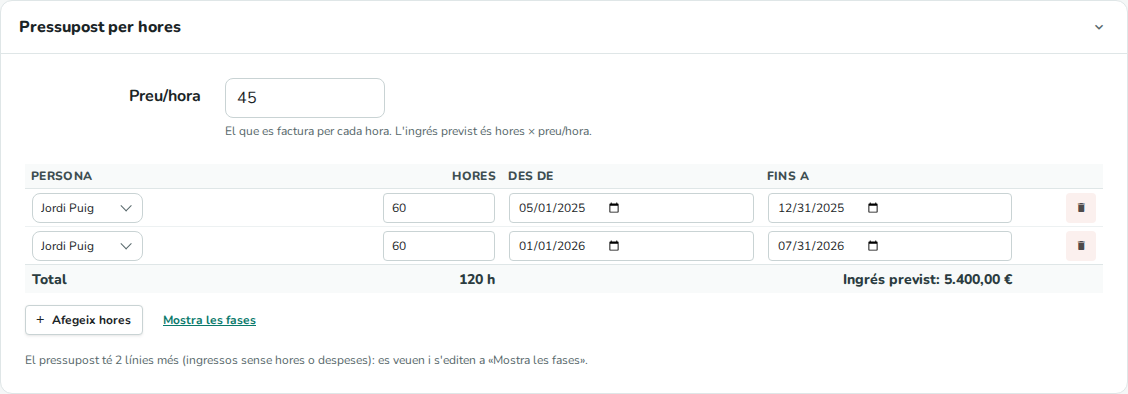
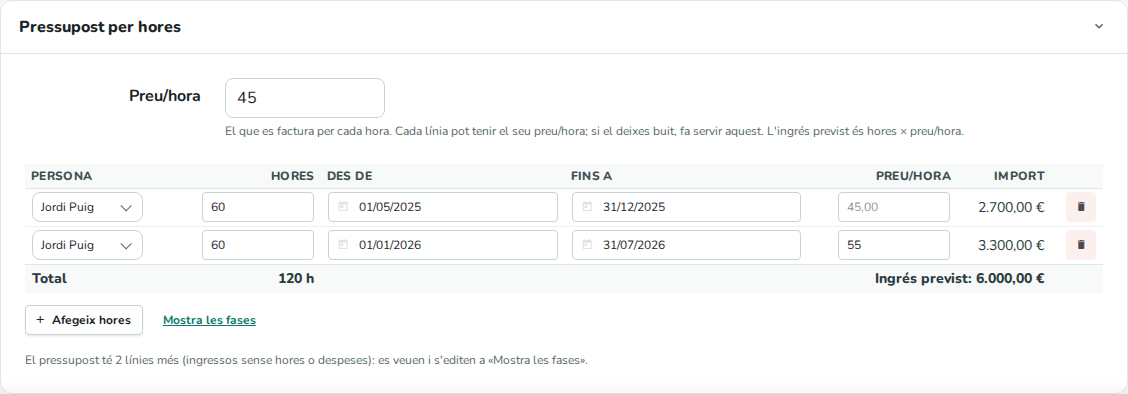
Manual: «Per facturar» per planning line, new 05/08, 05/09 and 09/08 pictures (issues/421)

diff --git a/manual/ca/05-fases-pressupost.md b/manual/ca/05-fases-pressupost.md
@@ -8,7 +8,7 @@ order: 5
 roles: [projects]
 routes: ["/projecte/:id"]
 lang: ca
-updated: 2026-10-30
+updated: 2026-11-09
 ---
 # 05. Fases i pressupost del projecte
 
@@ -142,7 +142,7 @@ En un projecte **Per hores**, la pestanya de la planificació es diu **Planifica
 del Gantt, hi ha el bloc **Pressupost per hores**. La pestanya **Pressupost i fases** mostra les fases com
 en qualsevol altre projecte.
 
-![El pressupost per hores: 120 hores a 45 € l'hora](img/05-fases-pressupost/08-pressupost-per-hores.png)
+![El pressupost per hores sota el Gantt: el projecte a 45 € l'hora i una línia a 55 €](img/05-fases-pressupost/08-pressupost-per-hores.png)
 
 - **Preu/hora**: el que es factura per cada hora (el mateix camp de la pestanya **Dades**).
 - Una fila per a cada bloc d'hores previstes: la **Persona** que les farà, les **Hores**, les dates
@@ -169,14 +169,16 @@ i no se'ls pot canviar el preu/hora.
 
 ### El resum d'un projecte per hores
 
-![El resum del projecte: 120 hores previstes a 45 €, 44,5 hores fetes](img/05-fases-pressupost/09-resum-per-hores.png)
+![El resum del projecte: 120 hores previstes, 44,5 hores fetes](img/05-fases-pressupost/09-resum-per-hores.png)
 
 A la pestanya **Resum**:
 
-- **Ingressos › Previstos** inclou les hores × el preu/hora (a l'exemple, 120 h × 45 € = 5.400 €, més una
-  línia de desplaçaments de 261 €).
+- **Ingressos › Previstos** inclou les hores × el preu/hora de cada línia (a l'exemple, 60 h × 45 € +
+  60 h × 55 € = 6.000 €, més una línia de desplaçaments de 261 €).
 - **Ingressos › Per facturar** (només als projectes per hores): les hores fetes × el preu/hora, menys el que
-  ja s'ha facturat i cobrat. A l'exemple, 44,5 h × 45 € − 261 € = 1.741,50 €.
+  ja s'ha facturat i cobrat. Cada hora feta es compta al preu/hora de la línia de la planificació de la
+  mateixa persona que cobreix aquell dia; si no n'hi ha cap, al del projecte. A l'exemple, totes les hores
+  fetes són del 2025, de la línia a 45 €: 44,5 h × 45 € − 261 € = 1.741,50 €.
 - **Hores › Preu/hora** i **Preu/hora previst** (a tots els projectes): el que surt per cada hora un cop
   restades les despeses. És el que queda per hora; per això és més baix que el preu/hora del projecte quan
   hi ha despeses.
@@ -226,7 +228,9 @@ cap any fins que se'ls posa data.
   factura. Les línies sense hores es queden com s'han escrit.
 - Les hores per setmana o per mes es compten de dilluns a divendres entre les dues dates (sense descomptar
   festius).
-- **Per facturar** = hores fetes × preu/hora − ingressos executats (mai menys de 0). Els ingressos executats
+- **Per facturar** = hores fetes × preu/hora − ingressos executats (mai menys de 0). El preu/hora de cada
+  hora feta és el de la línia de la planificació de la mateixa persona amb dates que inclouen aquell dia, o
+  el del projecte si no n'hi ha cap. Els ingressos executats
   són tots els del projecte, també els que no són hores.
 
 ## Preguntes freqüents

diff --git a/manual/ca/09-planificacio-gantt.md b/manual/ca/09-planificacio-gantt.md
@@ -8,7 +8,7 @@ order: 9
 roles: [projects]
 routes: ["/projecte/:id", "/panell-previsio-dedicacio"]
 lang: ca
-updated: 2026-10-18
+updated: 2026-11-09
 ---
 # 09. Planificació (Gantt)
 
@@ -75,6 +75,11 @@ El pas a pas amb imatges de la primera planificació és al capítol
 - Arrossegant una barra es mou en el temps; estirant-ne un extrem, s'allarga o s'escurça.
 
 ![Editar una dedicació](img/09-planificacio-gantt/04-editar-dedicacio.png)
+
+En un projecte **Per hores**, la finestra mostra el **Preu/hora** de la línia en lloc del **Cost/hora**. Si
+es deixa buit, la línia fa servir el preu/hora del projecte.
+
+![El preu/hora d'una línia en un projecte per hores](img/09-planificacio-gantt/08-preu-hora-dedicacio.png)
 
 Si una barra queda fora de les dates del projecte, surt l'avís *Atenció, planificació fora del període del
 projecte*. Els canvis no es desen fins que es clica **Guardar**.

diff --git a/manual/ca/04-crear-editar-projecte.md b/manual/ca/04-crear-editar-projecte.md
@@ -8,7 +8,7 @@ order: 4
 roles: [projects]
 routes: ["/projecte/:id"]
 lang: ca
-updated: 2026-11-06
+updated: 2026-11-09
 ---
 # 04. Crear i editar un projecte
 
